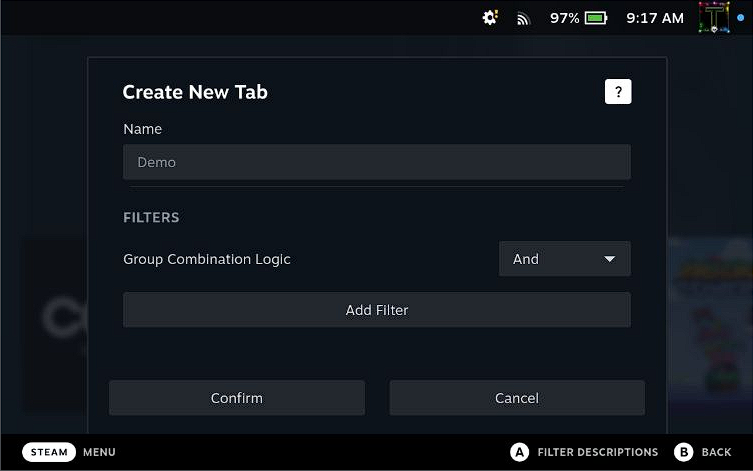
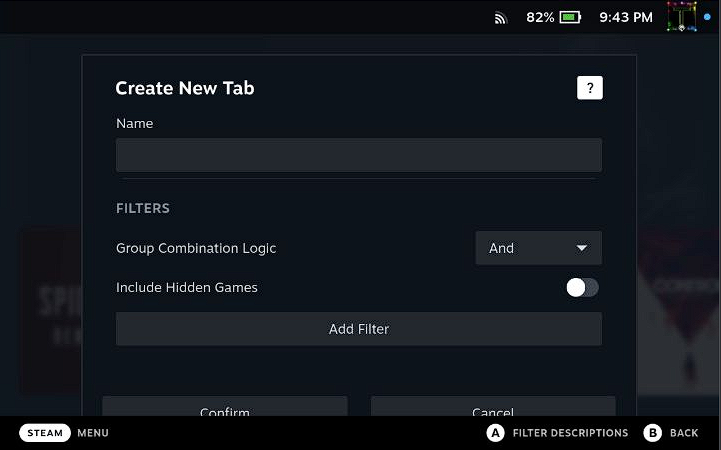
feat: added option to include hidden games

diff --git a/src/components/filters/Filters.tsx b/src/components/filters/Filters.tsx
@@ -19,7 +19,7 @@ type FriendsFilterParams = { friends: number[], mode: LogicalMode };
 type TagsFilterParams = { tags: number[], mode: LogicalMode };
 type WhitelistFilterParams = { games: number[] }
 type BlacklistFilterParams = { games: number[] }
-type MergeFilterParams = { filters: TabFilterSettings<FilterType>[], mode: LogicalMode }
+type MergeFilterParams = { filters: TabFilterSettings<FilterType>[], mode: LogicalMode, includesHidden: boolean }
 type PlatformFilterParams = { platform: SteamPlatform }
 type DeckCompatFilterParams = { category: number }
 
@@ -42,7 +42,7 @@ export type TabFilterSettings<T extends FilterType> = {
   params: FilterParams<T>
 }
 
-type FilterFunction = (params: FilterParams<FilterType>, appOverview: SteamAppOverview) => boolean;
+type FilterFunction = (params: FilterParams<FilterType>, appOverview: SteamAppOverview, includesHidden?: boolean) => boolean;
 
 /**
  * Define the deafult params for a filter type here
@@ -56,7 +56,7 @@ export const FilterDefaultParams: { [key in FilterType]: FilterParams<key> } = {
   "tags": { tags: [], mode: 'and' },
   "whitelist": { games: [] },
   "blacklist": { games: [] },
-  "merge": { filters: [], mode: 'and' },
+  "merge": { filters: [], mode: 'and', includesHidden: false },
   "platform": { platform: "steam" },
   "deck compatibility": { category: 3 }
 };
@@ -180,6 +180,7 @@ export function validateFilter(filter: TabFilterSettings<FilterType>): Validatio
       const errors: string[] = [];
       const mergeErrorEntries: FilterErrorEntry[] = []
 
+      if (!Object.keys(filter.params).includes("includesHidden")) (filter as TabFilterSettings<'merge'>).params.includesHidden = false;
       const mergeFilter = filter as TabFilterSettings<'merge'>;
 
       for (let i = 0; i < mergeFilter.params.filters.length; i++) {
@@ -228,8 +229,8 @@ export function validateFilter(filter: TabFilterSettings<FilterType>): Validatio
  */
 export class Filter {
   private static filterFunctions = {
-    collection: (params: FilterParams<'collection'>, appOverview: SteamAppOverview) => {
-      return collectionStore.GetCollection(params.id).visibleApps.includes(appOverview);
+    collection: (params: FilterParams<'collection'>, appOverview: SteamAppOverview, includesHidden: boolean) => {
+      return collectionStore.GetCollection(params.id)[includesHidden ? "allApps" : "visibleApps"].includes(appOverview);
     },
     installed: (params: FilterParams<'installed'>, appOverview: SteamAppOverview) => {
       return params.installed ? appOverview.installed : !appOverview.installed;
@@ -262,18 +263,18 @@ export class Filter {
     },
     merge: (params: FilterParams<'merge'>, appOverview: SteamAppOverview) => {
       if (params.mode === "and") {
-        return params.filters.every(filterSettings => Filter.run(filterSettings, appOverview));
+        return params.filters.every(filterSettings => Filter.run(filterSettings, appOverview, params.includesHidden));
       } else {
-        return params.filters.some(filterSettings => Filter.run(filterSettings, appOverview));
+        return params.filters.some(filterSettings => Filter.run(filterSettings, appOverview, params.includesHidden));
       }
     },
-    platform: (params: FilterParams<'platform'>, appOverview: SteamAppOverview) => {
+    platform: (params: FilterParams<'platform'>, appOverview: SteamAppOverview, includesHidden: boolean) => {
       let collection = null;
 
       if (params.platform === "steam") {
-        collection = collectionStore.allGamesCollection.visibleApps;
+        collection = collectionStore.allGamesCollection[includesHidden ? "allApps" : "visibleApps"];
       } else if (params.platform === "nonSteam") {
-        collection = collectionStore.deckDesktopApps?.visibleApps ?? collectionStore.localGamesCollection.visibleApps.filter((overview) => overview.app_type === 1073741824);
+        collection = collectionStore.deckDesktopApps?.[includesHidden ? "allApps" : "visibleApps"] ?? collectionStore.localGamesCollection[includesHidden ? "allApps" : "visibleApps"].filter((overview) => overview.app_type === 1073741824);
       }
 
       return collection ? collection.includes(appOverview) : false;
@@ -287,10 +288,11 @@ export class Filter {
    * Checks if a game passes a given filter.
    * @param filterSettings The filter to run.
    * @param appOverview The app to check
+   * @param includesHideen Whether this filter should include hidden games
    * @returns True if the app meets the filter criteria.
    */
-  static run(filterSettings: TabFilterSettings<FilterType>, appOverview: SteamAppOverview): boolean {
-    const shouldInclude = (this.filterFunctions[filterSettings.type] as FilterFunction)(filterSettings.params, appOverview);
+  static run(filterSettings: TabFilterSettings<FilterType>, appOverview: SteamAppOverview, includesHidden: boolean): boolean {
+    const shouldInclude = (this.filterFunctions[filterSettings.type] as FilterFunction)(filterSettings.params, appOverview, includesHidden);
     return filterSettings.inverted ? !shouldInclude : shouldInclude;
   }
 }

diff --git a/src/state/TabMasterManager.tsx b/src/state/TabMasterManager.tsx
@@ -76,7 +76,7 @@ export class TabMasterManager {
     this.allGamesReaction = reaction(() => collectionStore.GetCollection("type-games").allApps, this.rebuildCustomTabsOnCollectionChange.bind(this), { delay: 600 });
 
     //* subscribe to when visible favorites change
-    this.favoriteReaction = reaction(() => collectionStore.GetCollection('favorite').visibleApps.length, this.handleNumOfVisibleFavoritesChanged.bind(this));
+    this.favoriteReaction = reaction(() => collectionStore.GetCollection('favorite').allApps.length, this.handleNumOfVisibleFavoritesChanged.bind(this));
 
     //*subscribe to when visible soundtracks change
     this.soundtrackReaction = reaction(() => collectionStore.GetCollection('type-music').visibleApps.length, this.handleNumOfVisibleSoundtracksChanged.bind(this));
@@ -209,7 +209,8 @@ export class TabMasterManager {
                       const asEditableSettings: EditableTabSettings = {
                         title: tabContainer.title,
                         filters: tabContainer.filters,
-                        filtersMode: tabContainer.filtersMode
+                        filtersMode: tabContainer.filtersMode,
+                        includesHidden: tabContainer.includesHidden
                       };
 
                       this.updateCustomTab(tabContainer.id, asEditableSettings);
@@ -437,11 +438,13 @@ export class TabMasterManager {
    * @param title The title of the tab.
    * @param position The position of the tab.
    * @param filterSettingsList The list of filters for the tab.
+   * @param filtersMode The logic mode for these filters.
+   * @param includesHidden Whether or not this tab includes hidden games.
    */
-  createCustomTab(title: string, position: number, filterSettingsList: TabFilterSettings<FilterType>[], filtersMode: LogicalMode) {
+  createCustomTab(title: string, position: number, filterSettingsList: TabFilterSettings<FilterType>[], filtersMode: LogicalMode, includesHidden: boolean) {
     const id = uuidv4();
     this.addCollectionReactionsForFilters(flattenFilters(filterSettingsList));
-    this.visibleTabsList.push(this.addCustomTabContainer(id, title, position, filterSettingsList, filtersMode));
+    this.visibleTabsList.push(this.addCustomTabContainer(id, title, position, filterSettingsList, filtersMode, includesHidden));
     this.updateAndSave();
   }
 
@@ -595,8 +598,8 @@ export class TabMasterManager {
     }
 
     for (const keyId in tabsSettings) {
-      const { id, title, filters, position, filtersMode } = tabsSettings[keyId];
-      const tabContainer = filters ? this.addCustomTabContainer(id, title, position, filters, filtersMode!) : this.addDefaultTabContainer(tabsSettings[keyId]);
+      const { id, title, filters, position, filtersMode, includesHidden } = tabsSettings[keyId];
+      const tabContainer = filters ? this.addCustomTabContainer(id, title, position, filters, filtersMode!, includesHidden!) : this.addDefaultTabContainer(tabsSettings[keyId]);
 
       if (favoritesOriginalIndex !== null && favoritesOriginalIndex > -1 && tabContainer.position > favoritesOriginalIndex) {
         tabContainer.position--;
@@ -667,7 +670,7 @@ export class TabMasterManager {
 
     this.tabsMap.forEach(tabContainer => {
       const tabSettings = tabContainer.filters ?
-        { id: tabContainer.id, title: tabContainer.title, position: tabContainer.position, filters: tabContainer.filters, filtersMode: (tabContainer as CustomTabContainer).filtersMode }
+        { id: tabContainer.id, title: tabContainer.title, position: tabContainer.position, filters: tabContainer.filters, filtersMode: (tabContainer as CustomTabContainer).filtersMode, includesHidden: (tabContainer as CustomTabContainer).includesHidden }
         : tabContainer;
 
       allTabsSettings[tabContainer.id] = tabSettings;
@@ -681,10 +684,11 @@ export class TabMasterManager {
    * @param title The title of the tab.
    * @param position The position of the tab.
    * @param filterSettingsList The tab's filters.
+   * @param includesHidden Whether this tab should include hidden games.
    * @returns A tab container for this tab.
    */
-  private addCustomTabContainer(tabId: string, title: string, position: number, filterSettingsList: TabFilterSettings<FilterType>[], filtersMode: LogicalMode) {
-    const tabContainer = new CustomTabContainer(tabId, title, position, filterSettingsList, filtersMode);
+  private addCustomTabContainer(tabId: string, title: string, position: number, filterSettingsList: TabFilterSettings<FilterType>[], filtersMode: LogicalMode, includesHidden: boolean) {
+    const tabContainer = new CustomTabContainer(tabId, title, position, filterSettingsList, filtersMode, includesHidden);
     this.tabsMap.set(tabId, tabContainer);
     return tabContainer;
   }

diff --git a/src/components/CustomTabContainer.tsx b/src/components/CustomTabContainer.tsx
@@ -12,6 +12,7 @@ export class CustomTabContainer implements TabContainer {
   filters: TabFilterSettings<FilterType>[];
   collection: Collection;
   filtersMode: LogicalMode;
+  includesHidden: boolean;
 
   /**
    * Creates a new CustomTabContainer.
@@ -21,12 +22,13 @@ export class CustomTabContainer implements TabContainer {
    * @param filterSettingsList The tab's filters.
    * @param filtersMode boolean operator for top level filters
    */
-  constructor(id: string, title: string, position: number, filterSettingsList: TabFilterSettings<FilterType>[], filtersMode: LogicalMode) {
+  constructor(id: string, title: string, position: number, filterSettingsList: TabFilterSettings<FilterType>[], filtersMode: LogicalMode, includesHidden: boolean) {
     this.id = id;
     this.title = title;
     this.position = position;
     this.filters = filterSettingsList;
     this.filtersMode = filtersMode;
+    this.includesHidden = includesHidden;
     //@ts-ignore
     this.collection = {
       AsDeletableCollection: () => null,
@@ -85,11 +87,11 @@ export class CustomTabContainer implements TabContainer {
    */
   buildCollection() {
     if (this.position > -1) {
-      const appsList = collectionStore.appTypeCollectionMap.get('type-games')!.visibleApps.filter(appItem => {
+      const appsList = collectionStore.appTypeCollectionMap.get('type-games')![this.includesHidden ? "allApps" : "visibleApps"].filter(appItem => {
         if (this.filtersMode === 'and') {
-          return this.filters.every(filterSettings => Filter.run(filterSettings, appItem));
+          return this.filters.every(filterSettings => Filter.run(filterSettings, appItem, this.includesHidden));
         } else {
-          return this.filters.some(filterSettings => Filter.run(filterSettings, appItem));
+          return this.filters.some(filterSettings => Filter.run(filterSettings, appItem, this.includesHidden));
         }
       });
 
@@ -109,9 +111,10 @@ export class CustomTabContainer implements TabContainer {
    * @param updatedTabInfo The updated tab settings.
    */
   update(updatedTabInfo: EditableTabSettings) {
-    const { filters, title, filtersMode } = updatedTabInfo;
+    const { filters, title, filtersMode, includesHidden } = updatedTabInfo;
     this.title = title;
     this.filtersMode = filtersMode;
+    this.includesHidden = includesHidden;
     this.filters = filters;
     this.buildCollection();
   }

diff --git a/src/components/filters/FiltersPanel.tsx b/src/components/filters/FiltersPanel.tsx
@@ -1,4 +1,4 @@
-import { PanelSection, PanelSectionRow, Field, ButtonItem, Dropdown } from "decky-frontend-lib"
+import { PanelSection, PanelSectionRow, Field, ButtonItem, Dropdown, Toggle } from "decky-frontend-lib"
 import { VFC, Fragment } from "react"
 import { FilterEntry } from "./FilterEntry"
 import { FilterOptions } from "./FilterOptions"
@@ -6,15 +6,17 @@ import { TabFilterSettings, FilterType } from "./Filters"
 import { FilterSectionAccordion } from "../accordions/FilterSectionAccordion"
 
 interface FiltersPanelProps {
-  groupFilters: TabFilterSettings<FilterType>[]
-  groupLogicMode: string
-  setGroupFilters: React.Dispatch<React.SetStateAction<TabFilterSettings<FilterType>[]>>
-  setGroupLogicMode: React.Dispatch<React.SetStateAction<LogicalMode>>
-  addFilter: () => void
+  groupFilters: TabFilterSettings<FilterType>[],
+  groupLogicMode: string,
+  groupIncludesHidden: boolean,
+  setGroupFilters: React.Dispatch<React.SetStateAction<TabFilterSettings<FilterType>[]>>,
+  setGroupLogicMode: React.Dispatch<React.SetStateAction<LogicalMode>>,
+  setGroupIncludesHidden: React.Dispatch<React.SetStateAction<boolean>>,
+  addFilter: () => void,
   canAddFilter: boolean
 }
 
-export const FiltersPanel: VFC<FiltersPanelProps> = ({ groupFilters, groupLogicMode, setGroupFilters, setGroupLogicMode, addFilter, canAddFilter }) => {
+export const FiltersPanel: VFC<FiltersPanelProps> = ({ groupFilters, groupLogicMode, groupIncludesHidden, setGroupFilters, setGroupLogicMode, setGroupIncludesHidden, addFilter, canAddFilter }) => {
   const modeOptions = [
     { label: "And", data: "and" },
     { label: "Or", data: "or" }
@@ -33,6 +35,17 @@ export const FiltersPanel: VFC<FiltersPanelProps> = ({ groupFilters, groupLogicM
           <div style={{ width: "150px" }}>
             <Dropdown rgOptions={modeOptions} selectedOption={groupLogicMode} onChange={(option) => setGroupLogicMode(option.data)} focusable={true} />
           </div>
+        </Field>
+      </PanelSectionRow>
+      <PanelSectionRow>
+        <Field
+          label="Include Hidden Games"
+          childrenLayout="inline"
+          childrenContainerWidth="min"
+          inlineWrap="keep-inline"
+          className="no-sep"
+        >
+          <Toggle value={groupIncludesHidden} onChange={(checked) => setGroupIncludesHidden(checked)} />
         </Field>
       </PanelSectionRow>
       <PanelSectionRow>

diff --git a/src/components/modals/EditTabModal.tsx b/src/components/modals/EditTabModal.tsx
@@ -21,6 +21,7 @@ export type EditableTabSettings = {
   title: string,
   filters: TabFilterSettings<any>[];
   filtersMode: LogicalMode;
+  includesHidden: boolean;
 };
 
 type EditTabModalProps = {
@@ -31,15 +32,17 @@ type EditTabModalProps = {
   tabFilters: TabFilterSettings<FilterType>[],
   tabMasterManager: TabMasterManager,
   filtersMode: LogicalMode;
+  includesHidden: boolean
 };
 
 /**
  * The modal for editing and creating custom tabs.
  */
-export const EditTabModal: VFC<EditTabModalProps> = ({ closeModal, onConfirm, tabId, tabTitle, tabFilters, tabMasterManager, filtersMode }) => {
+export const EditTabModal: VFC<EditTabModalProps> = ({ closeModal, onConfirm, tabId, tabTitle, tabFilters, tabMasterManager, filtersMode, includesHidden }) => {
   const [name, setName] = useState<string>(tabTitle ?? '');
   const [topLevelFilters, setTopLevelFilters] = useState<TabFilterSettings<FilterType>[]>(tabFilters);
   const [topLevelLogicMode, setTopLevelLogicMode] = useState<LogicalMode>(filtersMode);
+  const [topLevelIncludesHidden, setTopLevelIncludesHidden] = useState<boolean>(includesHidden);
   const [canSave, setCanSave] = useState<boolean>(false);
   const [canAddFilter, setCanAddFilter] = useState<boolean>(true);
 
@@ -60,7 +63,8 @@ export const EditTabModal: VFC<EditTabModalProps> = ({ closeModal, onConfirm, ta
       const updated: EditableTabSettings = {
         title: name,
         filters: topLevelFilters,
-        filtersMode: topLevelLogicMode
+        filtersMode: topLevelLogicMode,
+        includesHidden: topLevelIncludesHidden
       };
       onConfirm(tabId, updated);
       closeModal!();
@@ -117,6 +121,8 @@ export const EditTabModal: VFC<EditTabModalProps> = ({ closeModal, onConfirm, ta
             addFilter={addFilter}
             groupLogicMode={topLevelLogicMode}
             setGroupLogicMode={setTopLevelLogicMode}
+            groupIncludesHidden={topLevelIncludesHidden}
+            setGroupIncludesHidden={setTopLevelIncludesHidden}
             canAddFilter={canAddFilter}
           />
         </ConfirmModal>

diff --git a/src/components/modals/EditMergeFilterModal.tsx b/src/components/modals/EditMergeFilterModal.tsx
@@ -20,6 +20,7 @@ interface EditMergeFilterModalProps {
 export const EditMergeFilterModal: VFC<EditMergeFilterModalProps> = ({ closeModal, mergeParams, saveMerge }) => {
   const [groupFilters, setGroupFilters] = useState<TabFilterSettings<FilterType>[]>(mergeParams.filters);
   const [groupLogicMode, setGroupLogicMode] = useState<LogicalMode>(mergeParams.mode);
+  const [groupIncludesHidden, setGroupIncludesHidden] = useState<boolean>(!!mergeParams.includesHidden);
   const [canSave, setCanSave] = useState<boolean>(false);
   const [canAddFilter, setCanAddFilter] = useState<boolean>(true);
 
@@ -46,7 +47,8 @@ export const EditMergeFilterModal: VFC<EditMergeFilterModalProps> = ({ closeModa
     if (canSave && canAddFilter) {
       const mergeParams = {
         filters: [...groupFilters],
-        mode: groupLogicMode
+        mode: groupLogicMode,
+        includesHidden: groupIncludesHidden
       };
 
       saveMerge(mergeParams);
@@ -80,6 +82,8 @@ export const EditMergeFilterModal: VFC<EditMergeFilterModalProps> = ({ closeModa
             addFilter={addFilterToGroup}
             groupLogicMode={groupLogicMode}
             setGroupLogicMode={setGroupLogicMode}
+            groupIncludesHidden={groupIncludesHidden}
+            setGroupIncludesHidden={setGroupIncludesHidden}
             canAddFilter={canAddFilter}
           />
         </ConfirmModal>

diff --git a/src/lib/Utils.ts b/src/lib/Utils.ts
@@ -98,8 +98,10 @@ export const defaultTabsSettings: TabSettingsDictionary = {
 export function validateTabs(tabs: TabSettingsDictionary): boolean {
   return Object.values(tabs).every((tab: TabSettings) => {
     if (tab.filters) {
+      if (!Object.keys(tab).includes("includesHidden")) tab.includesHidden = false;
+      if (!Object.keys(tab).includes("filtersMode")) tab.filtersMode = "and";
       return tab.filters.every((filter: TabFilterSettings<FilterType>) => {
-        return (filter as TabFilterSettings<FilterType>).type !== undefined
+        return (filter as TabFilterSettings<FilterType>).type !== undefined;
       });
     } else {
       return Object.keys(defaultTabsSettings).includes(tab.id);

diff --git a/src/index.tsx b/src/index.tsx
@@ -69,11 +69,12 @@ const Content: VFC<{}> = ({ }) => {
     showModal(
       <EditTabModal
         onConfirm={(_: any, tabSettings: EditableTabSettings) => {
-          tabMasterManager.createCustomTab(tabSettings.title, visibleTabsList.length, tabSettings.filters, tabSettings.filtersMode);
+          tabMasterManager.createCustomTab(tabSettings.title, visibleTabsList.length, tabSettings.filters, tabSettings.filtersMode, tabSettings.includesHidden);
         }}
         tabFilters={[]}
         tabMasterManager={tabMasterManager}
         filtersMode="and"
+        includesHidden={false}
       />
     );
   }

diff --git a/src/types/tabs.d.ts b/src/types/tabs.d.ts
@@ -6,6 +6,7 @@ type TabContainer = {
   position: number    //-1 position is a hidden tab
   filters?: TabFilterSettings<FilterType>[] //undefined filters is a default tab else it's a CustomTabContainer
   filtersMode?: LogicalMode //boolean operation combine filters
+  includesHidden?: boolean //boolean for if tab includes filters
 }
 
 interface TabSettings extends TabContainer { }

diff --git a/src/components/TabActions.tsx b/src/components/TabActions.tsx
@@ -32,6 +32,7 @@ export const TabActionsContextMenu: VFC<TabActionsContextMenuProps> = ({ tabCont
             tabFilters={tabContainer.filters!}
             tabMasterManager={tabMasterManager}
             filtersMode={tabContainer.filtersMode!}
+            includesHidden={tabContainer.includesHidden!}
           />
         )
       }}>
